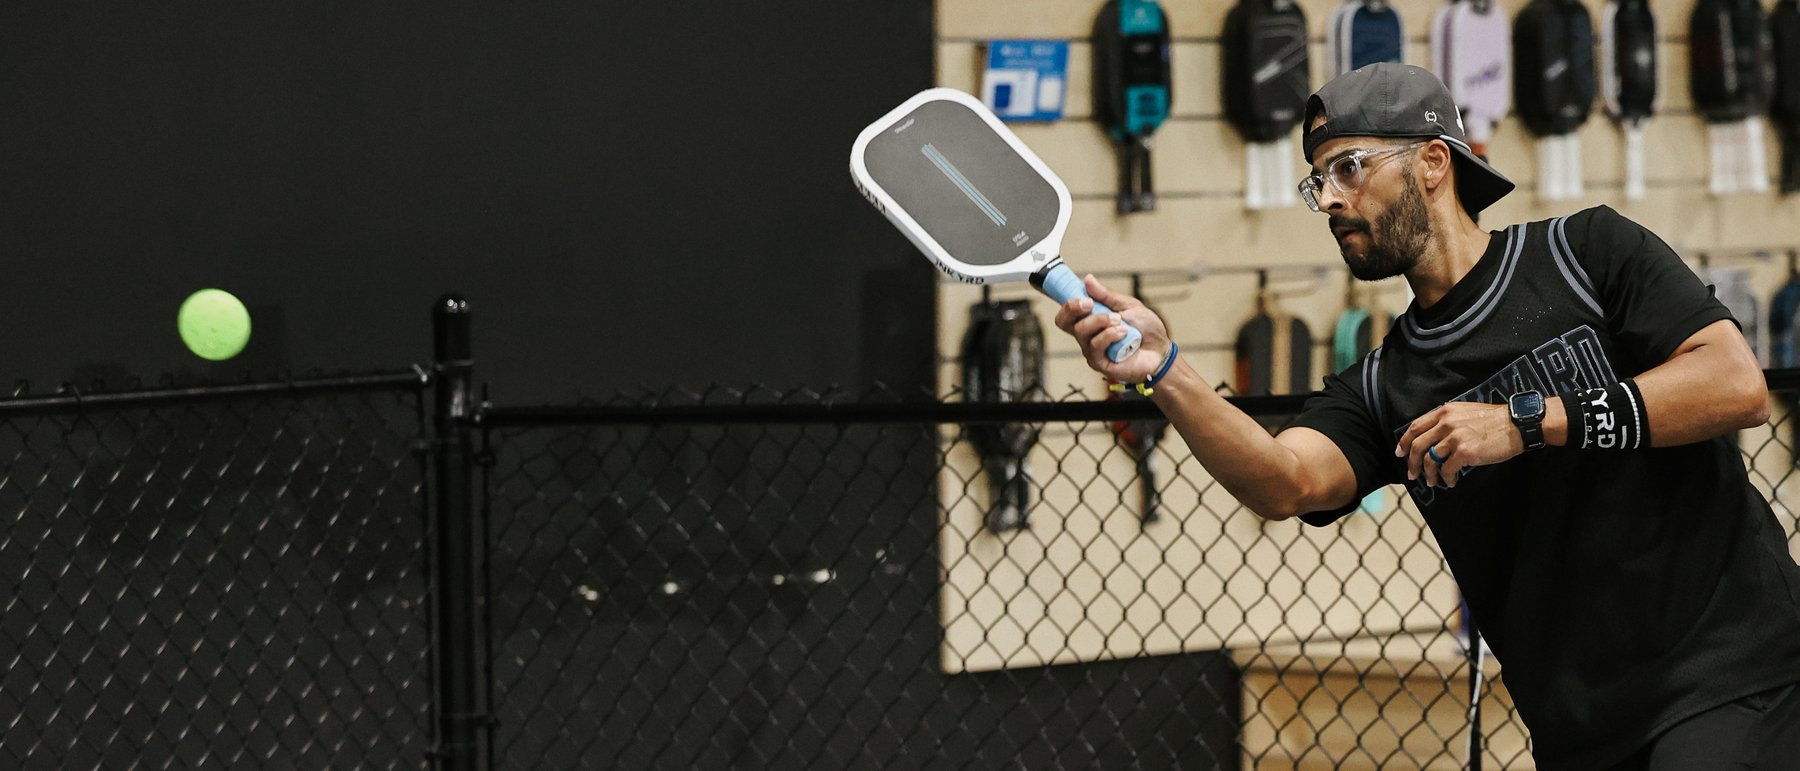
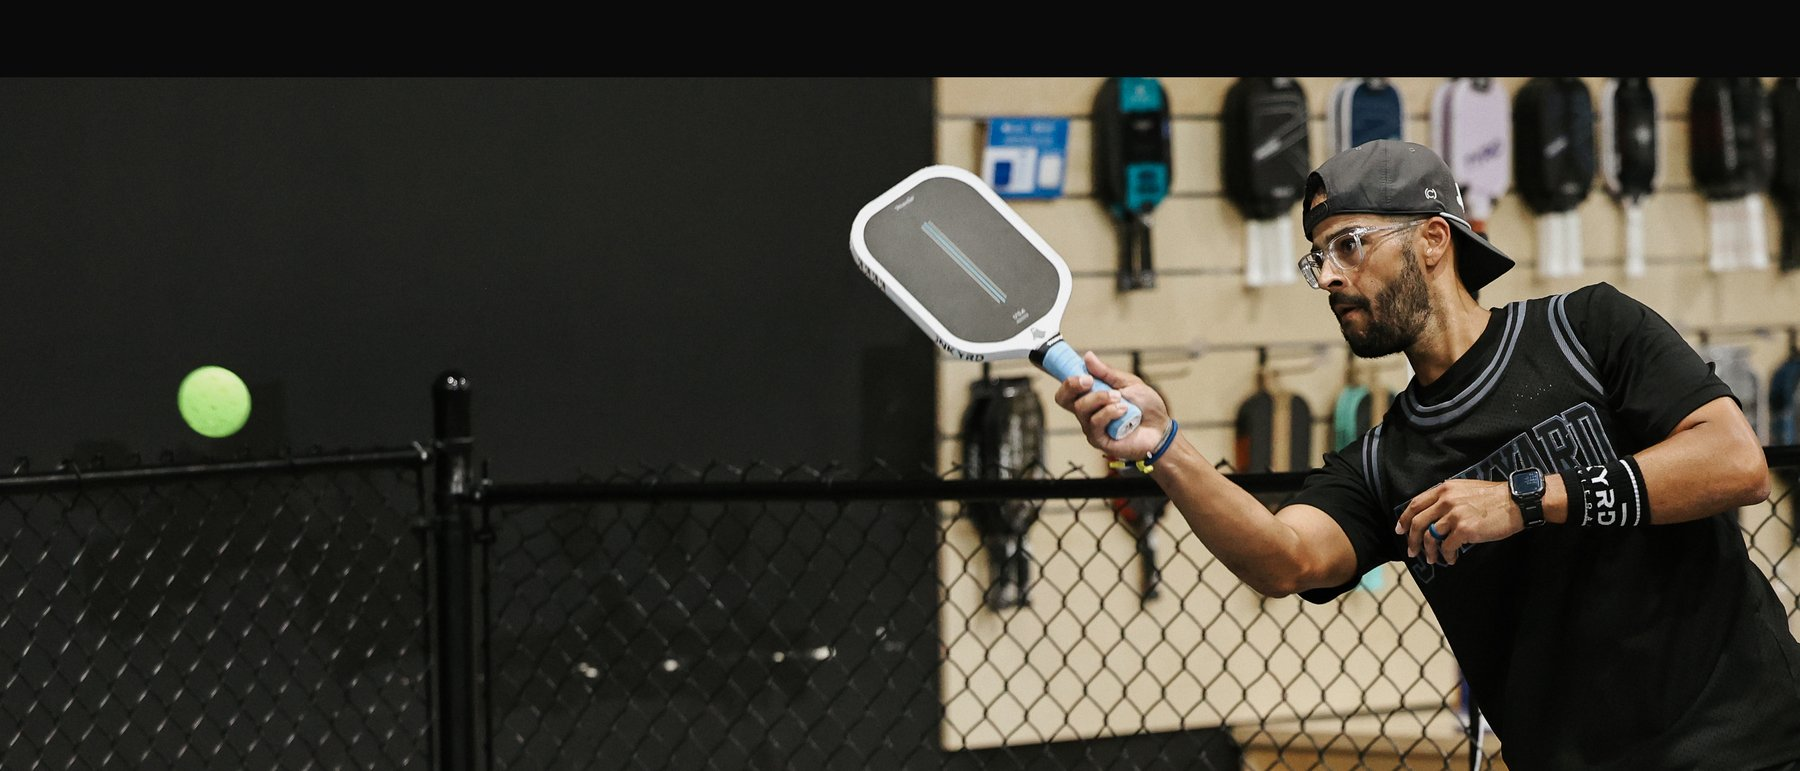
all gas no brakes, headroom on proof band

diff --git a/index.html b/index.html
@@ -1,5 +1,5 @@
 <!DOCTYPE html>
-<!-- BUILD: 2026-08-01 19:06 -->
+<!-- BUILD: 2026-08-01 19:18 -->
 <html lang="en">
 <head>
 <meta charset="UTF-8">
@@ -658,7 +658,7 @@
 
   <div class="proof-photo">
     <img src="img/proof.jpg" alt="Junkyard player mid-rally with a Marlo paddle">
-    <div class="cap">All smiles. All league long.</div>
+    <div class="cap">All gas. No brakes.</div>
   </div>
 </div>
 
@@ -795,7 +795,7 @@
 
 <footer>
   <span>Junkyard Pickleball · Gilbert, AZ</span>
-  <span>Season 6 · Sept–Nov 2026<span style="opacity:.35"> · b2026-08-01 19:06</span></span>
+  <span>Season 6 · Sept–Nov 2026<span style="opacity:.35"> · b2026-08-01 19:18</span></span>
 </footer>
 
 </body>
